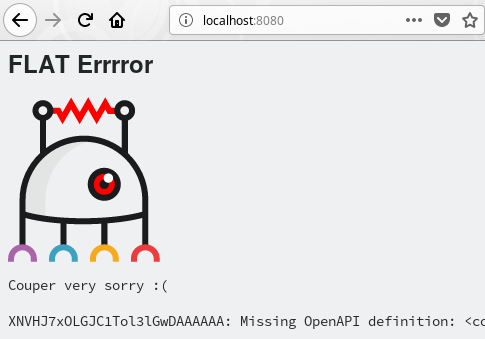
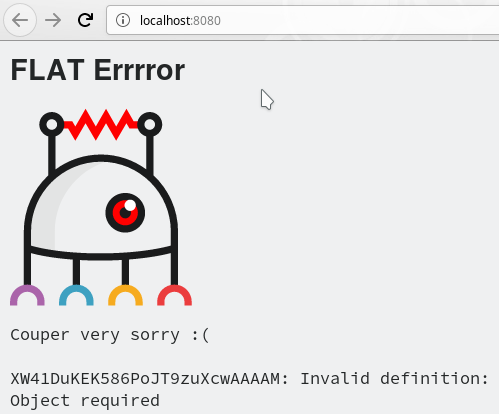
More fixes and clarifications

diff --git a/tutorial/README.md b/tutorial/README.md
@@ -45,14 +45,12 @@ Let's try to start FLAT:
 
 ```bash
 $ flat start ~/hello-world
-
 No FLAT app found in ~/hello-world: create swagger.yaml to start
 ```
 
 Before we can start FLAT, we need an API definition. The default location is `./swagger.yaml`. To get the server up and running, an empty one will do the job:
 ```bash
-$ cd ~/hello-world
-$ touch swagger.yaml
+$ touch ~/hello-world/swagger.yaml
 ```
 
 Now you can start FLAT like this
@@ -97,7 +95,7 @@ Object required
 Looks like an empty definition isn't really useful.
 
 We will need at least a minimal [OpenAPI definition](https://swagger.io/docs/specification/2-0/basic-structure/)
-to get rid of that error page.
+in our `swagger.yaml` to get rid of that error page.
 
 Currently, FLAT supports OpenAPI 2.0 also known as Swagger:
 
@@ -125,8 +123,8 @@ We'll get rid of it in the next section.
 
 ## In the Flow
 
-The [_Flow_](../reference/flow.md) feature of FLAT gives us full control over request and response processing.
-Let's create a simple Flow definition in `hello.xml` with an
+The [_flow_](../reference/flow.md) feature of FLAT gives us full control over request and response processing.
+Let's create a simple flow definition in `hello.xml` with an
 [`echo` _action_](../reference/actions/echo.md) that produces a JSON snippet:
 
 ```xml
@@ -193,7 +191,7 @@ In the flow, path parameters can be accessed via `$request/params/…`. With the
 </flow>
 ```
 
-![FLAT error](images/hello-css.png)
+!["Hello World" in CSS](images/hello-css.png)
 
 Did you notice how we change the HTTP status code to 404 when the requested
 language is unsupported?
@@ -972,7 +970,7 @@ Besides the built-in debug information, custom debug output can help understand 
 
 Here are the complete configuration files:
 
-## `hello.xml`
+### `hello.xml`
 
 ```xml
 <flow>
@@ -999,7 +997,7 @@ Here are the complete configuration files:
 </flow>
 ```
 
-## `upstream_request.xml`
+### `upstream_request.xml`
 
 ```xml
 <flow>
@@ -1026,13 +1024,16 @@ Here are the complete configuration files:
 </flow>
 ```
 
-## `swagger.yaml`
+### `swagger.yaml`
 
 ```yaml
 swagger: "2.0"
 info:
   version: "1.0"
   title: Hello World!
+x-flat-validate:
+  request: true
+  response: true
 paths:
   /{language}:
     get:
@@ -1058,7 +1059,7 @@ paths:
                 pattern: ^https://raw.githubusercontent.com/
 ```
 
-## `upstream.yaml`
+### `upstream.yaml`
 
 ```yaml
 swagger: "2.0"

diff --git a/cookbook/builtin-mocking.md b/cookbook/builtin-mocking.md
@@ -65,4 +65,4 @@ Such a mock response always identifies itself with a `Mock: true` response heade
 
 A fitting mock response body will be picked from the `examples` section according to the submitted `Accept` header – with `application/json` being the default.
 
-Mock responses will be validated, if response validation is enabled in `config.xml`.
+Mock responses will be validated, if [response validation](/reference/OpenAPI/validation.md) is enabled in `swagger.yaml`.
